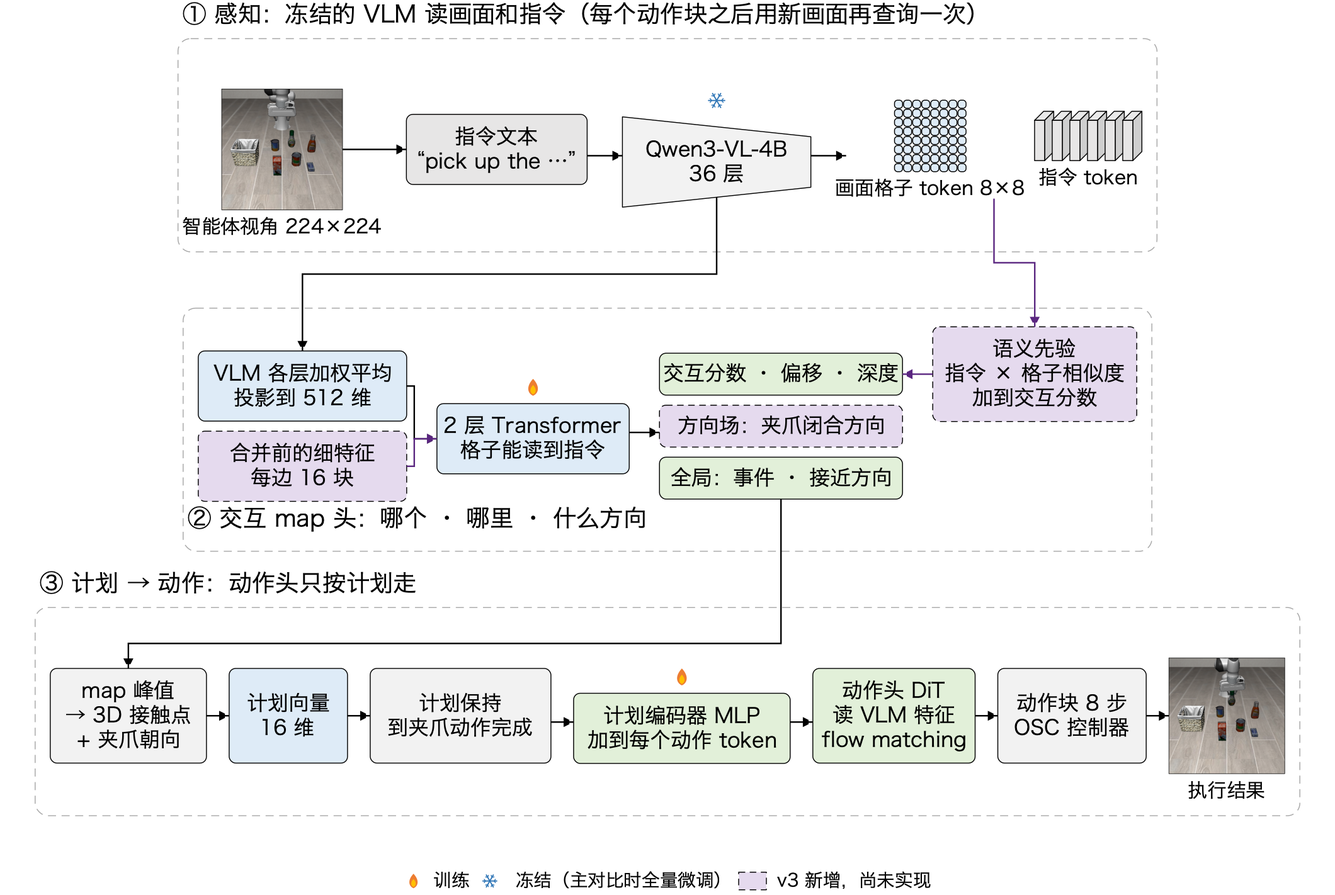
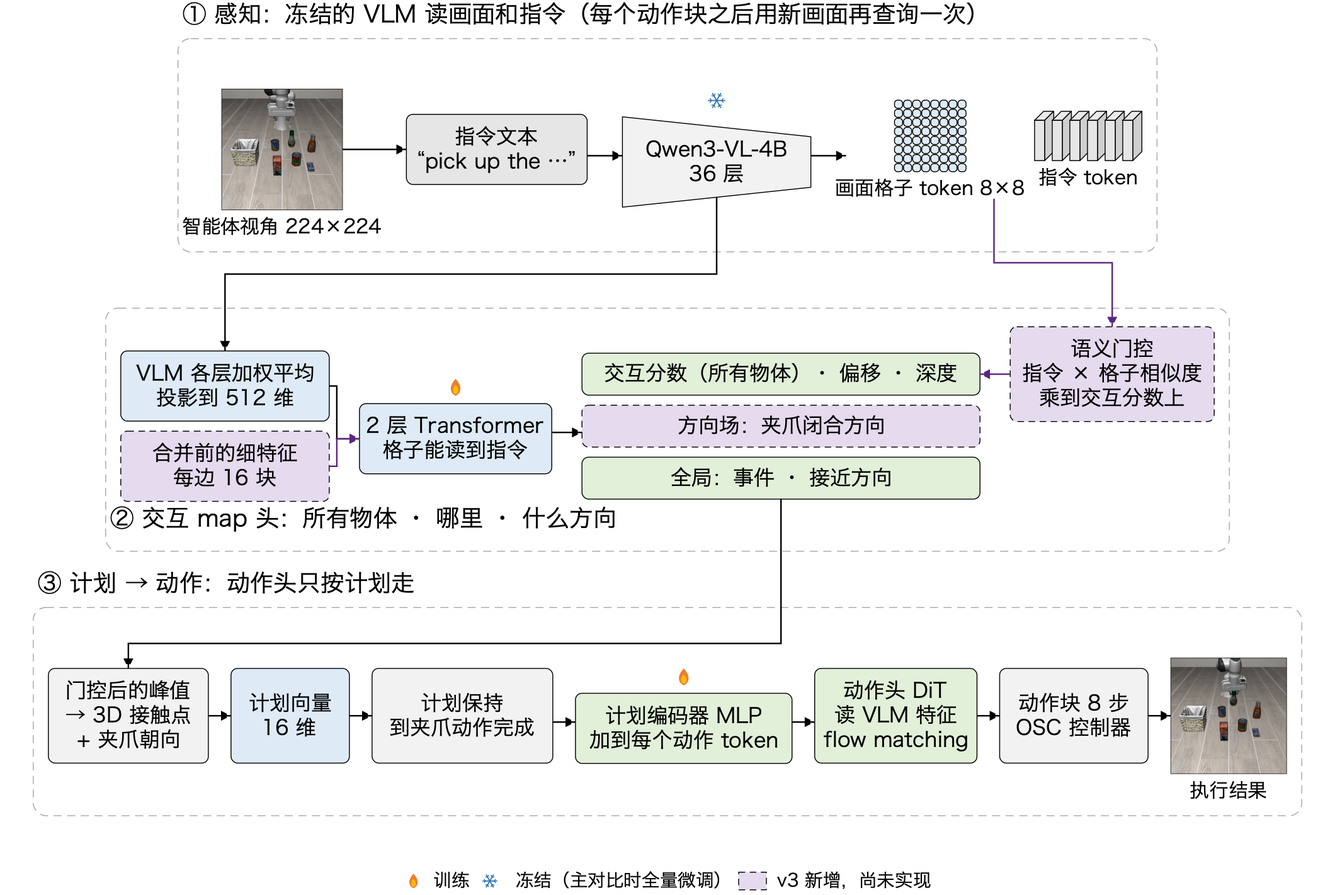
docs: third revision of Pipeline v3, 3D canonical maps, a map for every object, generalisation tests
The project lead confirmed four changes on 20 Nov:
1. L2 labels become per-category 3D canonical maps in the object frame (surface points, interaction score,
   closing axis); 2D labels are their projection. The model stays a 2D map with depth; 3D is used for labels,
   reading object orientation and evaluation only.
2. The interaction map is trained on every object in view and the semantic prior becomes a multiplicative
   gate that picks the named object (target score = semantic weight x interaction score).
3. Object orientation (phase 2) is read by 3D alignment: the canonical map is rotated about the vertical
   axis, projected and compared with the predicted map (after AROS, Frontiers in Robotics and AI 2023).
4. E7 adds generalisation tests G3 (object rotation), G4 (unseen object of a known category) and G5
   (combined changes).
The three v3 figures are redrawn to match. The progress section records the first E1 failure and its fix,
the LIBERO-10 replay fix and the released checkpoint on LIBERO-PRO LIBERO-10 (swap 3/200, task 18/160).

diff --git a/docs/vla/2026-11-19_VLA_branch_Pipeline_v3.md b/docs/vla/2026-11-19_VLA_branch_Pipeline_v3.md
@@ -4,6 +4,7 @@
 
 - 2026-11-19：项目负责人同意第 10 节的 6 条。
 - 同日晚：项目负责人确认修订，改为以交互 affordance map 为核心（第 10 节的 5 条）。
+- 2026-11-20：项目负责人确认第三轮修订：每类物体的 3D 标准 map 作标签、交互 map 画所有物体并由语义门控挑目标、用 3D 对齐读物体朝向、加泛化测试（第 10 节的 4 条）。
 
 **这份文件的作用：**
 
@@ -30,18 +31,23 @@
 
 物体不是对称的球时，比如杯子有把手，这张 map 本身就带着方向。计划（接触点和夹爪位姿）都从 map 解码出来，不另外回归。动作头只服从计划。
 
-**泛化的分工：**
+**泛化的分工：** 一次抓取拆成三件独立的事，每件事负责一种变化（11-20）。
+
+| 哪件事 | 由谁负责 | 应对哪种变化 |
+|---|---|---|
+| 抓哪个物体 | M1 语义门控 | 换指令、换目标 |
+| 抓物体的哪里、朝什么方向 | M2 交互 map（画面里所有物体）+ 每类物体的 3D 标准 map | 换位置、物体转动、同类的新物体 |
+| 手怎么动 | M4 动作头，用反事实样本训练 | 不负责泛化，只服从计划：计划在哪就去哪，朝向是什么就转成什么 |
 
 - 训练只用标准 LIBERO，测试零样本，用 LIBERO-PRO 和 LIBERO-Plus。
-- **交互 map 负责泛化。** 它要在新画面里认对物体、找准接触位置、给出方向，这是感知问题。
-- **动作头只负责服从。** 计划在哪就去哪，朝向是什么就转成什么，这一点靠反事实训练保证。
-- 因此，语义信息和方向信息都放在 map 这一侧，动作头不加这类模块。语义只在对照 F 里加到动作头（第 6 节）。
+- 三件事可以组合：几种变化同时出现时，每次失败都应能归到其中一件（第 4 节的 G5）。
+- 语义信息和方向信息都放在 map 这一侧，动作头不加这类模块。语义只在对照 F 里加到动作头（第 6 节）。
 
 **每类失败对应一个模块：**
 
 | 失败 | 归到 | 对应模块 |
 |---|---|---|
-| 指向了别的物体 | 语义 | M1 语义先验 |
+| 指向了别的物体 | 语义 | M1 语义门控 |
 | 物体对，接触位置偏 | 几何 | M2 交互 map 的分数和深度 |
 | 位置对，夹爪方向不对（抓滑、碰倒） | 方向 | M2 的方向场 + L 的交互标签 |
 | 计划对，动作没跟上 | 服从 | M4 动作头 + M5 反事实标签 |
@@ -54,16 +60,20 @@
 | 模块 | 内容 | 状态 | 代码 |
 |---|---|---|---|
 | M0 VLM | starVLA QwenPI 的官方权重，底座是 Qwen3-VL-4B。诊断和消融时冻结，主对比时全量微调 | 不变 | 不变 |
-| M1 语义先验 | 指令 token 和格子 token 的余弦相似度（借鉴 SemanticVLA 的 ID-Pruner），得到一张语义图，乘一个从 0 开始学的系数，加到交互分数上。指令方向的合并方式（求和还是取最大值）在 E1 里不训练、直接比较后选定 | 新增 | `affordance_vla/heads/semantic_prior.py` |
-| M2 交互 map 头 | 输入：VLM 各层的特征，以及更细的视觉特征。更细的特征先用 VLM 视觉编码器在合并之前的那一层（每边 16 块，不加新模型），不够再加 DINOv2。每个点输出交互分数、方向场（夹爪闭合方向，用 cos2θ 和 sin2θ 表示，所以转 180° 自动算同一种抓法）、深度。全局输出事件和接近方向，和现在一样 | 修改：现有的 8×8 格子头是它的第一版 | `affordance_vla/heads/plan_grid.py` 扩展，或新文件 `interaction_map.py` |
-| 解码 | 接触点：map 的峰值，加上深度和相机标定，得到 3D 位置。夹爪朝向：接近方向，加上峰值处的闭合方向。物体朝向：拿预测的 map 和这类物体的标准 map 比相似度，第二阶段再做 | 修改 | 同上 |
+| M1 语义门控 | 指令 token 和格子 token 的余弦相似度（借鉴 SemanticVLA 的 ID-Pruner），得到一张语义图。目标分数 = 语义权重 × 交互分数，语义权重 = softmax(α × 相似度)，α 从 0 开始学，开始时等于没有语义。合并方式（求和还是取最大值）在 E1 里不训练、直接比较后选定；冻结 VLM 的相似度不够准时，再加一个小的可学习投影 | 新增（11-20 从加法改为乘法） | `affordance_vla/heads/semantic_prior.py` |
+| M2 交互 map 头 | 输入：VLM 各层的特征，以及更细的视觉特征。更细的特征先用 VLM 视觉编码器在合并之前的那一层（每边 16 块，不加新模型），不够再加 DINOv2。每个点输出交互分数、方向场（夹爪闭合方向，用 cos2θ 和 sin2θ 表示，所以转 180° 自动算同一种抓法）、深度。**交互分数对画面里所有物体都画**，不只是被点名的那个，挑目标交给 M1。全局输出事件和接近方向，和现在一样 | 修改：现有的 8×8 格子头是它的第一版 | `affordance_vla/heads/plan_grid.py` 扩展，或新文件 `interaction_map.py` |
+| 解码 | 接触点：门控后目标分数的峰值，加上深度和相机标定，得到 3D 位置。夹爪朝向：接近方向，加上峰值处的闭合方向。物体朝向：第二阶段用 3D 对齐读出，见表下 | 修改 | 同上 |
 | M3 计划向量 | 加上目标朝向（相对当前夹爪，6D 表示），从 10 维变成 16 维。计划保持不变 | 修改 | `affordance_vla/plan/plan_input.py`、`heads/plan_policy.py` |
 | M4 动作头 | 结构不变。旋转（动作第 3–5 维）单独报误差 | 不变 | `heads/plan_policy.py` |
 | M5 反事实标签 | 在 15 日的标签（s10）上加"转朝向"：先设绕竖直轴 ±45°，E0 之后再定。动作的平移和旋转一起改写 | 修改 | `training/plan_samples.py`、`training/counterfactual.py` |
-| L 交互 map 标签 | 见第 3 节 | 新增 | `affordance_vla/plan/interaction_labels.py` |
+| L 交互 map 标签 | 每类物体一张 3D 标准 map，投到每一帧的所有物体上，见第 3 节 | 新增 | `affordance_vla/plan/interaction_labels.py` |
 | 执行 | OSC 控制器负责算关节，不训练正逆运动学 | 不变 | — |
 
 新功能都做成命令行开关，默认关闭，这样以前的运行照样能复现（AGENTS.md）。
+
+**3D 用在哪里（11-20）：** 标签（每类物体的 3D 标准 map）、读物体朝向（3D 对齐）和评测。模型的输入和输出仍是图像上的 map 加深度；每个格子用深度和相机标定就能还原成 3D 点（`plan_grid.py` 的 `pixel_contact`）。
+
+**3D 对齐读物体朝向（第二阶段）：** 把这类物体的 3D 标准 map 放到预测的物体位置，绕竖直轴每 10° 转一档，投到画面上，和预测的 map 比较（交互分数的重合度，加上方向场的一致程度），取最吻合的角度。这和 AROS 的做法一样：转着试，看哪个角度对得上。在物体坐标系里只剩朝向一个未知量，不像在 2D 图上那样和视角混在一起。小物体在 8×8 格子里只占 1–2 格，点太稀时先用更细的特征和接近时的腕部视角。
 
 ## 3. 训练
 
@@ -74,7 +84,8 @@
 | 来源 | 内容 | 成本 |
 |---|---|---|
 | L1 示范 | 每次抓取那一刻，用夹爪位姿（日志里已有 `ee_pos`、`ee_quat`）和物体分割图，得到"接触区域 + 闭合方向"的逐像素标签 | 只用 CPU，日志现成 |
-| L2 按类别的标准 map | 把同一类物体的所有抓取换到物体自己的坐标系里叠加，得到这类物体的标准交互 map，带方向。再按物体位姿投影到任何一帧、任何物体上。这样每一帧都有完整标签，对称物体会得到多个可行的抓法；"换物体"的反事实样本和 LIBERO-PRO 首帧也都有真值 | 要重新回放示范，补记物体位姿（只用 CPU，几个小时） |
+| L2 每类物体的 3D 标准 map | 把同一类物体的所有抓取换到物体自己的坐标系里，落到物体表面上，叠加成这类物体的 3D 标准 map：表面点、交互分数、闭合轴。闭合轴转 180° 不变，存成 d·dᵀ 的平均，取主方向；主方向不明显，说明这类物体的朝向无所谓（如罐子）。再按物体位姿投到任何一帧的**每个物体**上，得到 2D 标签和深度。这样每一帧都有完整标签，对称物体会得到多个可行的抓法；"换物体"的反事实样本和 LIBERO-PRO 首帧也都有真值 | 物体位姿已补记（Object 500/500，LIBERO-10 回放中）。物体表面从 MuJoCo 模型的网格或碰撞几何取；有些物体由基本几何体拼成，要先核对 |
+| L1 的精确版（可选） | 借 AROS 的交互面：用夹爪网格和物体网格，算出抓取那一刻两者之间的面，得到更准的接触区域 | 只用 CPU；L1 不够准时再做 |
 | L3 脚本抓取 | 换不同朝向去抓，记下成功和失败 | 暂不做 |
 
 **仿真里的物体位姿只用来生成标签和做评测，测试时不输入模型。**
@@ -83,10 +94,12 @@
 
 | 部分 | 数据 | 损失 | 规模 |
 |---|---|---|---|
-| 交互 map 头（含 M1） | `dataset10` 加上 L1、L2 的标签，之后再加 `dataset_spatial` | 交互分数：对标签分布（多个可行抓法）的交叉熵。方向场：只在接触区域内算 cos2θ、sin2θ 的 L2。深度：Huber。事件和接近方向：和现在一样 | 冻结 VLM，单卡几千步 |
+| 交互 map 头（含 M1） | `dataset10` 加上 L1、L2 的标签，之后再加 `dataset_spatial` | 交互分数：对所有物体的标签（每格是否在某个物体的接触区域，二元交叉熵）。目标分数（门控之后）：对点名物体的标签分布（多个可行抓法）的交叉熵，只更新 M1，这样"抓哪个"和"抓哪里"不缠在一起。方向场：只在接触区域内算 cos2θ、sin2θ 的 L2。深度：Huber。事件和接近方向：和现在一样 | 冻结 VLM，单卡几千步 |
 | 动作头 | 同上，加反事实样本 | flow matching 动作损失。平移和旋转的标签都按反事实改写 | 消融：LoRA，约 3100 万参数。主对比：全量微调（需要整机时段） |
 
 先在冻结的 VLM 上把各模块验证完，再做全量微调。
+
+**动作头要训练，但 11-20 的改动不影响它：** 计划向量的格式不变；"换物体"的反事实样本已经训练它去任何被指定的物体，所以门控挑谁它就去谁。朝向进计划（16 维）后要重训一次，这是 E3 原本就有的。
 
 ## 4. 测试和诊断
 
@@ -94,10 +107,11 @@
 
 **离线检查**（便宜，每次改了 map 头都先做）：在 LIBERO-PRO 每个起始状态的第一帧上看 map 的输出。
 
-- **认对物体率：** map 的峰值落在指令点名的物体分割区域里的比例。
+- **认对物体率：** 门控后的峰值落在指令点名的物体分割区域里的比例。
+- **所有物体的 map：** 每个物体自己区域里的峰值，是否落在它的接触区域里（不只看被点名的）。
 - **位置误差：** 认对时沿视线方向和垂直视线方向分开算（现有的 plan audit）。
 - **闭合方向误差：** 单位是度，按 180° 对称取较小的。真值来自 L2。
-- **物体朝向误差：** 第二阶段再算。
+- **物体朝向误差：** 第二阶段再算：3D 对齐读出的朝向和仿真真值之差，单位度，按物体的对称性取最小。
 
 **闭环：** 用 `scripts/eval/run_libero_pro_gpu.sh`。
 
@@ -106,6 +120,20 @@
 - 朝向的主要测试加一个有把手物体的任务集：LIBERO-10（杯子、摩卡壶）和它的 LIBERO-PRO 版本（`libero_10_*`）。LIBERO-Object 的物体接近对称，朝向信息不多。
 - 正式报告的数字按论文协议：50 个起始状态，种子 7、8、9。
 - 每个失败的 episode 归到第 1 节表里的一类，结果按任务报。
+
+### 泛化测试（E7，11-20 加）
+
+| 测试 | 改变了什么 | 主要考哪部分 | 数据 |
+|---|---|---|---|
+| G1 | 物体位置 | 交互 map 跟着物体走 | LIBERO-PRO `_swap`（已有） |
+| G2 | 指令或目标 | 语义门控挑物体 | LIBERO-PRO `_task`、`_lan`（已有） |
+| G3 | 物体绕竖直轴转 ±45° | 3D 对齐读朝向 | LIBERO-10 带把手的杯子、摩卡壶；扰动自己加 |
+| G4 | 同类但没见过的物体 | 每类物体的 3D 标准 map | 训练时留出一种杯子（LIBERO 里有几种杯子，待核对） |
+| G5 | 以上几种同时出现 | 三部分一起 | 自己组合 |
+
+- 每个测试看两层：各部分单独准不准（认对物体率、接触点误差 cm、朝向误差 °），和闭环成功率。
+- 对照：官方权重、去掉语义门控、只用 2D（不做 3D 对齐）、真值计划（上限）。
+- **泛化雏形成立的判据：** G5 的每次失败都能归到某一部分；把那一部分换成真值后，成功率回升。
 
 ## 5. 实验顺序和通过标准
 
@@ -122,13 +150,13 @@
 |---|---|---|---|---|
 | E0 | **位姿假设检验。** 用已有的日志比较抓取时刻的夹爪朝向：成功对失败，以及和同一物体的示范相比。第一版用世界坐标 | 只用 CPU | 失败抓取的朝向偏离示范，明显大于成功抓取（例如中位数差 10° 以上），而且和视频对得上。结果也用来定"转朝向"的角度范围 | 方向分支（E3、E5）暂停，在 Object 上另找失败原因；方向在有把手物体的任务集上再测 |
 | E1 | **语义诊断。** ① 把 g1 在首帧上的错误分成"认错物体"和"认对但位置偏"；② 不训练，看冻结 VLM 里指令 token 和格子的相似度图，比较求和与取最大值哪个更准地落在点名的物体上 | 推理，单卡 | 只是诊断：选定合并方式，决定 E2 的重点 | — |
-| L | **建交互 map 的标签（L1 + L2）。** 重新回放示范、补记物体位姿，生成每类物体的标准 map，检查同类物体之间的方向是否一致 | 只用 CPU，和 E0、E1 同时做 | 同一类物体多次抓取的闭合方向，在物体坐标系里聚成少数几簇；投影回画面后和示范帧对得上（看图检查） | 先查回放和投影 |
-| E2 | **语义先验。** 在现有的 8×8 头上加 M1（`g2_semantic`），配 s10 动作头 | 训练计划头 + 闭环 | 离线认对物体率提高，tomato sauce 不能再是 0% 选对格子。闭环位置扰动超过 129，任务扰动不低于 145 | 去掉 M1 |
+| L | **建交互 map 的标签（L1 + L2）。** 重新回放示范、补记物体位姿，生成每类物体的 3D 标准 map，投到每一帧的所有物体上，检查同类物体之间的方向是否一致 | 只用 CPU，和 E0、E1 同时做 | 同一类物体多次抓取的闭合方向，在物体坐标系里聚成少数几簇；3D map 投影回画面后和示范帧对得上（看图检查） | 先查回放和投影 |
+| E2 | **语义门控。** 在现有的 8×8 头上加 M1 的乘法门控（`g2_semantic`），交互分数改用 L2 的所有物体标签，配 s10 动作头 | 训练计划头 + 闭环 | 离线认对物体率提高，tomato sauce 不能再是 0% 选对格子。闭环位置扰动超过 129，任务扰动不低于 145 | 回到 g1 的做法：交互头直接学点名的物体，不用 M1 |
 | E3 | **朝向的上界。** 真值朝向进计划（16 维）对比 10 维真值计划，动作头加 ±45° 的"转朝向"反事实；再给真值朝向加噪声，看误差到多大成功率开始下降 | 训练动作头 + 闭环 | 用真值计划时成功率提高，抓取失败和碰倒减少 | 朝向不进计划，只留作分析 |
-| E4 | **交互 map 头。** 更细的分辨率加方向场，用 L 的标签训练 | 训练 map 头 + 离线检查 | 认对物体率不低于 E2；位置误差中位数下降；闭合方向误差小于 E3 测出的容忍范围 | 先查标签和分辨率 |
+| E4 | **交互 map 头。** 更细的分辨率加方向场，用 L 的标签训练（所有物体） | 训练 map 头 + 离线检查 | 认对物体率不低于 E2；位置误差中位数下降；闭合方向误差小于 E3 测出的容忍范围 | 先查标签和分辨率 |
 | E5 | **用 map 解码出的计划做闭环**，包括位置和朝向 | 闭环 | 高于 E2 的结果；在有把手物体的任务集上高于不带朝向的版本 | 真值朝向的上界写进论文的分析部分 |
 | E6 | **同骨干基线**（第 6 节） | 轻量训练 | — | — |
-| E7 | **推广：** LIBERO-Spatial（数据已备好）、LIBERO-10、按论文协议重跑、全量微调的主对比；然后做第二阶段：从 map 读物体朝向 | 整机时段要提前通知 | 和论文里的数字并列 | — |
+| E7 | **推广：** LIBERO-Spatial（数据已备好）、LIBERO-10、按论文协议重跑、全量微调的主对比；然后做第二阶段：用 3D 对齐读物体朝向；泛化测试 G1–G5（第 4 节） | 整机时段要提前通知 | 和论文里的数字并列 | — |
 
 - 每个条件至少 6 个起始状态，开发阶段用 20 个。
 - 结果按任务报，不只报总数。
@@ -155,8 +183,8 @@ v3 新增一个：
 - 不换到 OpenVLA 骨干，不复现 SemanticVLA 整套。
 - 动作头里不加语义剪枝（只在对照 F 里用）。
 - 不训练正逆运动学。
-- 第一版只做 2D 图像上的 map（加深度），不做 3D 点云上的 map。
-- 第一版只从 map 读夹爪朝向；读物体朝向放在第二阶段（E7 之后）。
+- 模型只做 2D 图像上的 map（加深度），不做以 3D 点云为输入的网络；3D 只用在标签、读物体朝向和评测上（11-20）。
+- 第一版只从 map 读夹爪朝向；读物体朝向放在第二阶段（E7），用 3D 对齐。
 - 暂不做 L3 脚本抓取，也不用外部 6-DoF 抓取数据（ACRONYM 等）。
 - 测试时不把仿真里的物体位姿输入模型。
 - episode 状态、记忆方向、人类视频继续不在主线（11-12 的决定）。
@@ -165,7 +193,8 @@ v3 新增一个：
 
 - **原来的规则继续有效：** 扰动下预测的接触点到不了约 2 厘米，或者强基线不留提升空间，就换论点。
 - **E0 不通过：** Object 上的方向分支暂停，方向改到有把手物体的任务集上验证。
-- **E2 不通过：** 去掉语义先验。
+- **E2 不通过：** 回到 g1 的做法（交互头直接学点名的物体），不用语义门控。
+- **3D 对齐读不出朝向**（点太稀或对不上）：先换更细的特征、加腕部视角；仍然不行，就在 map 头上直接回归物体朝向，3D 标准 map 只用来生成它的标签。
 - **E4 的方向场学不出来：** 检查 L 的标签。仍然不行，就回退到每格回归朝向的做法。
 - **记录：** 每一步的结果写进 `docs/vla/` 的日期记录，并在本文件末尾的"进展"里加一行。
 
@@ -202,6 +231,13 @@ v3 新增一个：
 - 语义图的合并方式在 E1 里不训练、直接比较求和与取最大值，选落在点名物体上更准的那种。
 - "转朝向"先设绕竖直轴 ±45°，等 E0 看失败抓取的朝向偏了多少再定。
 
+**2026-11-20，第三轮（4 条）：**
+
+1. L2 标签直接做成每类物体的 3D 标准 map（物体坐标系里的表面点、交互分数、闭合轴），2D 标签由它投影得到。模型仍是 2D 加深度，所以修订的第 3 条不变。
+2. 交互 map 对画面里所有物体都画，语义权重乘上去挑目标（M1 从加法改为乘法门控）。改动 E2、E4。
+3. 第二阶段读物体朝向改成 3D 对齐，取代修订第 5 条里的"比相似度"。
+4. E7 加泛化测试 G3–G5；G1、G2 就是现有的 `_swap`、`_task`、`_lan`。
+
 ## 进展
 
 - 2026-11-19：项目负责人确认第一轮的 6 条；画了三张图，更新了 [README](README.md)。
@@ -210,9 +246,14 @@ v3 新增一个：
   - 失败的首次抓取离最近的示范，只比抓住的多偏 1.4°（图像格子计划）和 1.6°（真值计划），通过线是 10°；示范本身也几乎只有一种抓法。
   - 真正的差别在位置：闭合时夹爪离物体中心的距离，中位数 2.0 cm（抓住且成功）对 4.7 cm（没抓住）。
   - 按第 8 节的规则：方向分支在 LIBERO-Object 上暂停，E3、E5 改到 LIBERO-10；"转朝向"的角度范围到那里再定。Object 上先做交互 map 的位置部分，以及 E1、E2。
+- 2026-11-20：项目负责人确认第三轮的 4 条；文档和三张图已更新。
+  - **E1 第一次运行失败。** 探针按 token 编号找指令，但提示词是"Your task is {instruction}. …"，指令的第一个词在上下文里带前导空格，编号对不上。改成按字符位置匹配，用真实的分词器核对过，已重新排队。
+  - **LIBERO-10 示范回放第一次全部失败。** 文件名带场景前缀（`KITCHEN_SCENE3_…`），不是指令本身。修好后重新回放（每个任务 50 条，只用 CPU）。
+  - **官方权重在 LIBERO-PRO 的 LIBERO-10 上**（每个任务 20 个起始状态，种子 7）：位置扰动 3/200，任务扰动 18/160。任务扰动的任务 2、3 没跑：它们第一个关注物体是灶台和柜子，不能抓；脚本改成取第一个可抓的物体，已重新排队。
 
 ## 参考
 
+- **AROS**（Pacheco-Ortega、Mayol-Cuevas，Frontiers in Robotics and AI，2023，"AROS: Affordance Recognition with One-Shot Human Stances"）：在人和场景之间算交互平分面（IBS），用从这个面指向环境的向量和人体周围的留空向量描述一次交互；在 3D 场景表面上逐点转着试 8 个朝向打分。借鉴的部分：用交互面生成更准的接触区域（L1 的精确版），以及"转着试、看哪个角度对得上"的朝向读取（3D 对齐）。
 - **SemanticVLA**（AAAI 2026 oral）：[arXiv 2511.10518](https://arxiv.org/abs/2511.10518)，[代码](https://github.com/iLearn-Lab/AAAI26-SemanticVLA)。借鉴的部分：指令和图像块的相似度（ID-Pruner）、更细的视觉特征。
 - **带方向的 affordance 和类别级迁移：**
   - GG-CNN：逐像素的抓取质量、角度（cos2θ、sin2θ）和宽度；

diff --git a/docs/vla/README.md b/docs/vla/README.md
@@ -8,21 +8,21 @@
 - "`mem` 分支"指 affordance3D 仓库里的记忆方向；
 - "`main` 上的文档"指 `docs/vla/` 以外、从 affordance3D 带过来的早期文档，是两个方向共享的 brainstorming 基础，本仓库不再维护。
 
-## 现行 pipeline：v3（2026-11-19 确认）
+## 现行 pipeline：v3（2026-11-19 确认，11-20 第三轮修订）
 
 方法和实验以 [Pipeline v3](2026-11-19_VLA_branch_Pipeline_v3.md) 为准，要改方向先改那份文件。三张图分别讲测试时的模型、训练和泛化。紫色虚线框是 v3 新增、还没实现的部分，其余都已经在跑。图的规格和截图来源见[图的说明](../../report/media/pipeline_overview/README.md)。
 
-**测试时的模型。** 冻结的 VLM 读画面和指令。交互 map 头给出每个点的交互分数、深度和方向场（夹爪闭合方向）；语义先验帮它认对指令说的物体。map 的峰值解码成 3D 接触点和夹爪朝向，压成 16 维计划，保持到夹爪动作完成。动作头读 VLM 特征，按计划生成 8 步动作。现在运行的是 map 头的第一版：8×8 格子，没有方向场。
+**测试时的模型。** 冻结的 VLM 读画面和指令。交互 map 头对画面里所有物体给出每个点的交互分数、深度和方向场（夹爪闭合方向）；语义门控把指令和画面的相似度乘上去，挑出指令说的物体。map 的峰值解码成 3D 接触点和夹爪朝向，压成 16 维计划，保持到夹爪动作完成。动作头读 VLM 特征，按计划生成 8 步动作。现在运行的是 map 头的第一版：8×8 格子，没有方向场。
 
 ![v3 测试时的模型](../../report/media/pipeline_overview/v3_model.png)
 
 **训练。** 两个头分开训练：
-- 交互 map 头：标签来自夹爪和物体的交互。L1 是示范里抓取那一刻的夹爪位姿加物体分割图；L2 是按类别叠加的标准 map，再投影到每一帧。
+- 交互 map 头：标签来自夹爪和物体的交互。L1 是示范里抓取那一刻的夹爪位姿加物体分割图；L2 是每类物体在物体坐标系里叠加成的 3D 标准 map，再投影到每一帧的所有物体上。
 - 动作头：用反事实样本训练。画面不变，把计划挪走，动作标签跟着改写。这是本工作的核心。
 
 ![v3 的训练](../../report/media/pipeline_overview/v3_training.png)
 
-**泛化。** 只在标准 LIBERO 上训练，在 LIBERO-PRO 上零样本测试。泛化靠交互 map，动作头只负责服从。每个失败的回合都归到一个要改的模块。
+**泛化。** 只在标准 LIBERO 上训练，在 LIBERO-PRO 上零样本测试。一次抓取拆成三件事：抓哪个（语义门控）、抓哪里和朝什么方向（交互 map 和 3D 标准 map）、手怎么动（动作头，只负责服从）。每个失败的回合都归到一个要改的模块；E7 再加物体转动、同类新物体和组合变化的测试（G3–G5）。
 
 ![v3 的泛化和诊断回路](../../report/media/pipeline_overview/v3_generalization.png)
 
@@ -85,6 +85,12 @@
      - 语义图的合并方式在 E1 里不训练、直接比较求和与取最大值，选定其一；
      - "转朝向"先设绕竖直轴 ±45°，等 E0 结果再定。
   7. **新的实验顺序：** E0、E1、L 同时做，然后 E2 语义先验 → E3 朝向上界 → E4 交互 map 头 → E5 用 map 解码的计划做闭环 → E6 基线 → E7 推广。
+- **已决定（2026-11-20，项目负责人，确认 [Pipeline v3](2026-11-19_VLA_branch_Pipeline_v3.md) 第 10 节第三轮的 4 条）：**
+  1. **L2 标签做成每类物体的 3D 标准 map：** 物体坐标系里的表面点、交互分数和闭合轴，2D 标签由它投影得到。模型仍是 2D 图像上的 map 加深度；3D 只用在标签、读物体朝向和评测上。
+  2. **交互 map 对画面里所有物体都画，语义只负责挑目标：** 目标分数 = 语义权重 × 交互分数（M1 从加法改为乘法门控）。这样换指令时 map 不用重学，只是语义挑了另一个物体。
+  3. **第二阶段读物体朝向改用 3D 对齐：** 把这类物体的 3D 标准 map 绕竖直轴转着试，投到画面上和预测的 map 比较，取最吻合的角度（借鉴 AROS）。
+  4. **E7 加泛化测试：** G3 物体转动、G4 同类新物体、G5 组合变化；G1、G2 是现有的位置和任务扰动。
+  - 动作头仍要训练（反事实样本），但这 4 条不改变它：计划向量的格式不变。
 - **仓库整理与本机仿真（2026-11-17，项目负责人要求）：** 研究代码按 [AGENTS.md](../../AGENTS.md) 的要求维护（每个文件不超过 500 行、共享模块、配置驱动、每个实验一条命令）。代码包改名为 `affordance_vla`，按领域分子目录；脚本按用途分到 `scripts/`，环境放进 `envs/`；全部实验的命令和设置在 [EXPERIMENTS.md](../../EXPERIMENTS.md)。Mac 上可以在 MuJoCo 窗口里打开 LIBERO-PRO 场景、执行脚本抓取、逐步回放服务器上的测试，见[本机仿真](../local_simulation.md)。训练和评测的设置还没有挪进 `configs/`（AGENTS.md Part B）。
 - **近邻核实后的定位（2026-11-12，[R9](2026-11-12_VLA_branch_R9_服从性与反事实训练的近邻核实.md)）：**
   - "计划被动作头绕过"这个现象已经有人立住（Fast Plans, Faithful Actions），不能当贡献。

diff --git a/report/media/pipeline_overview/README.md b/report/media/pipeline_overview/README.md
@@ -6,13 +6,13 @@ the figures are real crops, and they live in this folder too.
 | Figure | What it shows | Status |
 | --- | --- | --- |
 | `pipeline_overview.png` | the pipeline as it runs now; it is the figure in the first section of `report/2026-11-16_weekly_review.ipynb` | current system |
-| `v3_model.png` | Pipeline v3 at test time. The frozen VLM feeds the interaction affordance map head, which outputs an interaction score, depth and a direction field (gripper closing direction). A semantic prior picks the named object. The plan (contact and gripper orientation) is decoded from the map into 16 numbers, and the action head follows it | **guide since 19 Nov 2026** |
-| `v3_training.png` | How v3 trains its two heads. The map head learns from gripper-object interaction labels: L1 comes from demonstration grasps, L2 from per-category canonical maps projected by object pose (labels only). The action head learns from counterfactual samples | **guide since 19 Nov 2026** |
-| `v3_generalization.png` | v3 generalisation. Training is on LIBERO-Object and testing is zero-shot on LIBERO-PRO, with LIBERO-10 (mugs, moka pots) added later for orientation. The interaction map has to generalise; the action head only has to obey. Each failure is traced back to one module | **guide since 19 Nov 2026** |
+| `v3_model.png` | Pipeline v3 at test time. The frozen VLM feeds the interaction affordance map head, which outputs an interaction score for every object in view, depth and a direction field (gripper closing direction). A semantic gate multiplies the instruction-to-cell similarity onto the scores and so picks the named object. The plan (contact and gripper orientation) is decoded from the map into 16 numbers, and the action head follows it | **guide since 19 Nov 2026** |
+| `v3_training.png` | How v3 trains its two heads. The map head learns from gripper-object interaction labels: L1 comes from demonstration grasps, L2 from per-category 3D canonical maps in the object frame, projected by object pose onto every object in the frame (labels only). The action head learns from counterfactual samples | **guide since 19 Nov 2026** |
+| `v3_generalization.png` | v3 generalisation. Training is on LIBERO-Object and testing is zero-shot on LIBERO-PRO, with LIBERO-10 (mugs, moka pots) added later for orientation. A grasp splits into three parts: which object (semantic gate), where and in which direction (interaction map), how to move (action head, which only has to obey). Each failure is traced back to one module; E7 adds object rotation, unseen objects of a known category and combined changes | **guide since 19 Nov 2026** |
 | `pose_plan_pipeline.png` | first proposal (18 Nov): adds only the gripper orientation; superseded by the v3 figures | record |
 
 The v3 figures belong to `docs/vla/2026-11-19_VLA_branch_Pipeline_v3.md`. The project lead confirmed it on
-19 Nov 2026, together with the revision that evening that puts the interaction affordance map at its centre. Purple dashed boxes mark what v3 adds and has not implemented yet. Every other part of the figures, and
+19 Nov 2026, together with the revision that evening that puts the interaction affordance map at its centre, and the third revision of 20 Nov (3D canonical maps as labels, maps for every object with a semantic gate, 3D alignment for object orientation, generalisation tests). Purple dashed boxes mark what v3 adds and has not implemented yet. Every other part of the figures, and
 all the crops, show the current system.
 
 | File | What it is |
